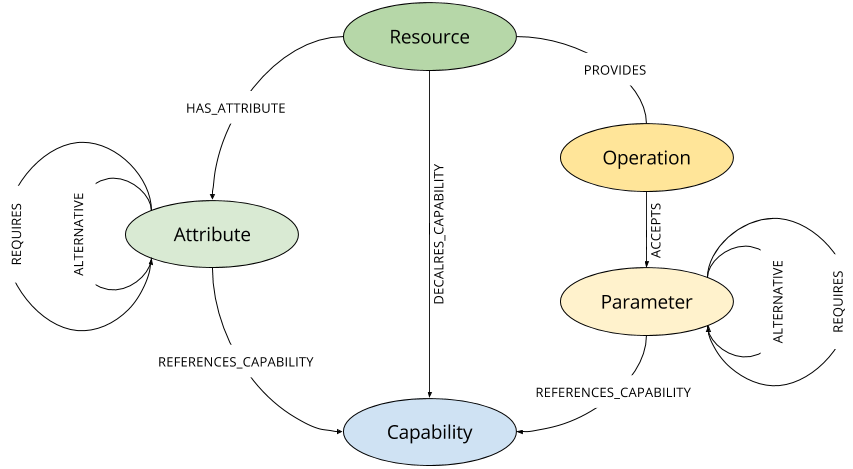
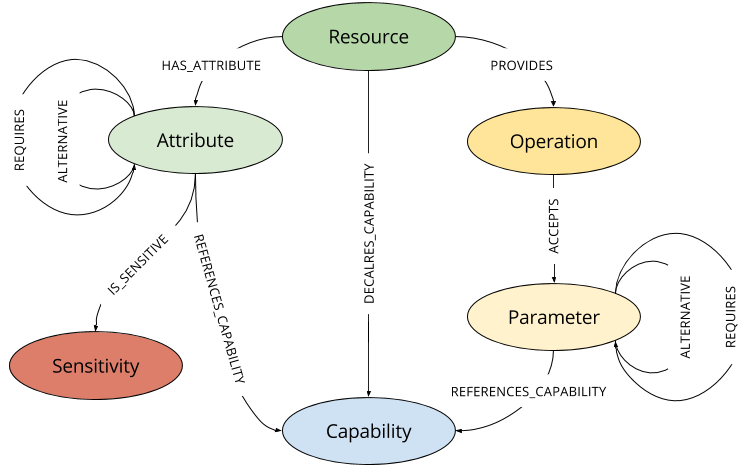
Add analysis for sensitive access constraints

diff --git a/src/html/10.html b/src/html/10.html
@@ -70,6 +70,10 @@
                     <dd>
                         <p>The parameter node holds information about the request properties. The properties and relationships of the parameter node are similar to the attribute node.</p>
                     </dd>
+                    <dt>Sensitivity</dt>
+                    <dd>
+                        <p>The sensitivity node holds information about the sensitive constraints of attributes. Each sensitivity has a name and a type.</p>
+                    </dd>
                     <dt>Capability</dt>
                     <dd><p>The capability node holds just the name of the capability.</p>
                     </dd>
@@ -90,6 +94,9 @@
                 </figure>
                 <figure>
                     <pre class="pre-scrollable code runnable">MATCH (p:Parameter) RETURN keys(p) LIMIT 1</pre>
+                </figure>
+                <figure>
+                    <pre class="pre-scrollable code runnable">MATCH (p:Sensitivity) RETURN keys(p) LIMIT 1</pre>
                 </figure>
                 <figure>
                     <pre class="pre-scrollable code runnable">MATCH (c:Capability) RETURN keys(c) LIMIT 1</pre>

diff --git a/src/html/9.html b/src/html/9.html
@@ -70,6 +70,10 @@
                     <dd>
                         <p>The parameter node holds information about the request properties. The properties and relationships of the parameter node are similar to the attribute node.</p>
                     </dd>
+                    <dt>Sensitivity</dt>
+                    <dd>
+                        <p>The sensitivity node holds information about the sensitive constraints of attributes. Each sensitivity has a name and a type.</p>
+                    </dd>
                     <dt>Capability</dt>
                     <dd><p>The capability node holds just the name of the capability.</p>
                     </dd>
@@ -90,6 +94,9 @@
                 </figure>
                 <figure>
                     <pre class="pre-scrollable code runnable">MATCH (p:Parameter) RETURN keys(p) LIMIT 1</pre>
+                </figure>
+                <figure>
+                    <pre class="pre-scrollable code runnable">MATCH (p:Sensitivity) RETURN keys(p) LIMIT 1</pre>
                 </figure>
                 <figure>
                     <pre class="pre-scrollable code runnable">MATCH (c:Capability) RETURN keys(c) LIMIT 1</pre>

diff --git a/src/html/nightly.html b/src/html/nightly.html
@@ -70,6 +70,10 @@
                     <dd>
                         <p>The parameter node holds information about the request properties. The properties and relationships of the parameter node are similar to the attribute node.</p>
                     </dd>
+                    <dt>Sensitivity</dt>
+                    <dd>
+                        <p>The sensitivity node holds information about the sensitive constraints of attributes. Each sensitivity has a name and a type.</p>
+                    </dd>
                     <dt>Capability</dt>
                     <dd><p>The capability node holds just the name of the capability.</p>
                     </dd>
@@ -90,6 +94,9 @@
                 </figure>
                 <figure>
                     <pre class="pre-scrollable code runnable">MATCH (p:Parameter) RETURN keys(p) LIMIT 1</pre>
+                </figure>
+                <figure>
+                    <pre class="pre-scrollable code runnable">MATCH (p:Sensitivity) RETURN keys(p) LIMIT 1</pre>
                 </figure>
                 <figure>
                     <pre class="pre-scrollable code runnable">MATCH (c:Capability) RETURN keys(c) LIMIT 1</pre>

diff --git a/src/main/java/org/jboss/hal/modelgraph/Analyzer.java b/src/main/java/org/jboss/hal/modelgraph/Analyzer.java
@@ -91,7 +91,7 @@ class Analyzer {
             parseResource(address, parent);
             readChildren(address).forEach(child -> parse(address.add(child), address));
         } else {
-            logger.warn("Skipping {}. Maximum nesting of {} reached.", address.toString(), MAX_DEPTH);
+            logger.warn("Skip {}. Maximum nesting of {} reached.", address.toString(), MAX_DEPTH);
         }
     }
 
@@ -134,6 +134,15 @@ class Analyzer {
                     ModelNode attribute = property.getValue();
                     mergeAttribute(address, name, attribute);
 
+                    // sensitivity
+                    if (attribute.hasDefined(ACCESS_CONSTRAINTS) &&
+                            attribute.get(ACCESS_CONSTRAINTS).hasDefined(SENSITIVE)) {
+                        ModelNode sensitive = attribute.get(ACCESS_CONSTRAINTS).get(SENSITIVE);
+                        if (sensitive.isDefined()) {
+                            mergeSensitive(address, name, sensitive);
+                        }
+                    }
+
                     // collect alternatives and requires
                     if (attribute.hasDefined(ALTERNATIVES)) {
                         List<String> a = attribute.get(ALTERNATIVES)
@@ -162,9 +171,9 @@ class Analyzer {
 
             // operations
             if (resourceDescription.hasDefined(OPERATIONS)) {
-                resourceDescription.get(OPERATIONS).asPropertyList().forEach(op -> {
-                    String name = op.getName();
-                    ModelNode operation = op.getValue();
+                resourceDescription.get(OPERATIONS).asPropertyList().forEach(property -> {
+                    String name = property.getName();
+                    ModelNode operation = property.getValue();
                     boolean globalOperation = GLOBAL_OPERATIONS.contains(name);
                     boolean create = !globalOperation || missingGlobalOperations.contains(name);
 
@@ -270,6 +279,7 @@ class Analyzer {
         stats.relations += statementResult.summary().counters().relationshipsCreated();
     }
 
+
     // ------------------------------------------------------ neo4j - capability
 
     private void mergeCapabilities(ResourceAddress address, String capability) {
@@ -309,11 +319,12 @@ class Analyzer {
         addIfPresent(cypher, UNIT, attribute, ModelNode::asString);
         addDeprecated(cypher, attribute);
         addValueType(cypher, attribute);
-
         cypher.append("})"); // end attribute
+
+        // capability
         if (attribute.hasDefined(CAPABILITY_REFERENCE)) {
             String capabilityReference = attribute.get(CAPABILITY_REFERENCE).asString();
-            cypher.append(" MERGE (a)-[:REFERENCES_CAPABILITY]-(:Capability {")
+            cypher.append(" MERGE (a)-[:REFERENCES_CAPABILITY]->(:Capability {")
                     .append(NAME, CAPABILITY_REFERENCE, capabilityReference)
                     .append("})");
         }
@@ -321,6 +332,25 @@ class Analyzer {
         StatementResult statementResult = nc.execute(cypher);
         stats.attributes += statementResult.summary().counters().nodesCreated();
         stats.relations += statementResult.summary().counters().relationshipsCreated();
+    }
+
+    private void mergeSensitive(ResourceAddress address, String name, ModelNode sensitive) {
+        sensitive.asPropertyList().forEach(property -> {
+            String sensitiveName = property.getName();
+            String type = property.getValue().get(TYPE).asString();
+
+            Cypher cypher = new Cypher("MATCH (:Resource {")
+                    .append(ADDRESS, address.toString()).append("})")
+                    .append("-[:HAS_ATTRIBUTE]->(a:Attribute {")
+                    .append(NAME, name).append("})")
+                    .append(" MERGE (a)-[:IS_SENSITIVE]->(:Sensitivity {")
+                    .append(NAME, "sensitiveName", sensitiveName).comma()
+                    .append(TYPE, type).append("})");
+
+            StatementResult statementResult = nc.execute(cypher);
+            stats.sensitive += statementResult.summary().counters().nodesCreated();
+            stats.relations += statementResult.summary().counters().relationshipsCreated();
+        });
     }
 
     private void mergeAttributeRelation(ResourceAddress address, String source, String target, String relation) {

diff --git a/src/main/java/org/jboss/hal/modelgraph/Stats.java b/src/main/java/org/jboss/hal/modelgraph/Stats.java
@@ -8,6 +8,7 @@ class Stats {
     long resources;
     long failedResources;
     long attributes;
+    long sensitive;
     long operations;
     long parameters;
     long capabilities;
@@ -17,11 +18,12 @@ class Stats {
     public String toString() {
         String result = String.format("Successfully created%n\t%,8d resources%n" +
                         "\t%,8d attributes%n" +
+                        "\t%,8d sensitive constraints%n" +
                         "\t%,8d operations%n" +
                         "\t%,8d request properties%n" +
                         "\t%,8d capabilities and%n" +
                         "\t%,8d relationships",
-                resources, attributes, operations, parameters, capabilities, relations);
+                resources, attributes, sensitive, operations, parameters, capabilities, relations);
         if (failedResources > 0) {
             result += String.format("%n\t%,8d resources could not be processed.", failedResources);
         }

diff --git a/src/main/java/org/jboss/hal/modelgraph/dmr/ModelDescriptionConstants.java b/src/main/java/org/jboss/hal/modelgraph/dmr/ModelDescriptionConstants.java
@@ -45,6 +45,7 @@ package org.jboss.hal.modelgraph.dmr;
 public interface ModelDescriptionConstants {
 
     // KEEP THESE IN ALPHABETICAL ORDER!
+    String ACCESS_CONSTRAINTS = "access-constraints";
     String ACCESS_TYPE = "access-type";
     String ADD = "add";
     String ADDRESS = "address";
@@ -125,6 +126,7 @@ public interface ModelDescriptionConstants {
     String RESULT = "result";
     String RUNTIME_ONLY = "runtime-only";
 
+    String SENSITIVE = "sensitive";
     String SINCE = "since";
     String SINGLETON = "singleton";
     String STORAGE = "storage";

diff --git a/README.md b/README.md
@@ -8,7 +8,7 @@ The tool creates the following graph:
 
 ![Model Graph](src/html/model-graph.png)
 
-There are five main nodes in the database:
+There are six main nodes in the database:
 
 1. Resource
     
@@ -32,6 +32,10 @@ There are five main nodes in the database:
 1. Parameter
 
     The parameter node holds information about the request properties and has similar properties as the `attribute` node.
+    
+1. Sensitivity
+
+    The sensitivity node holds information about the sensitive constraints of attributes. Each sensitivity has a name and a type. 
 
 1. Capability
   
